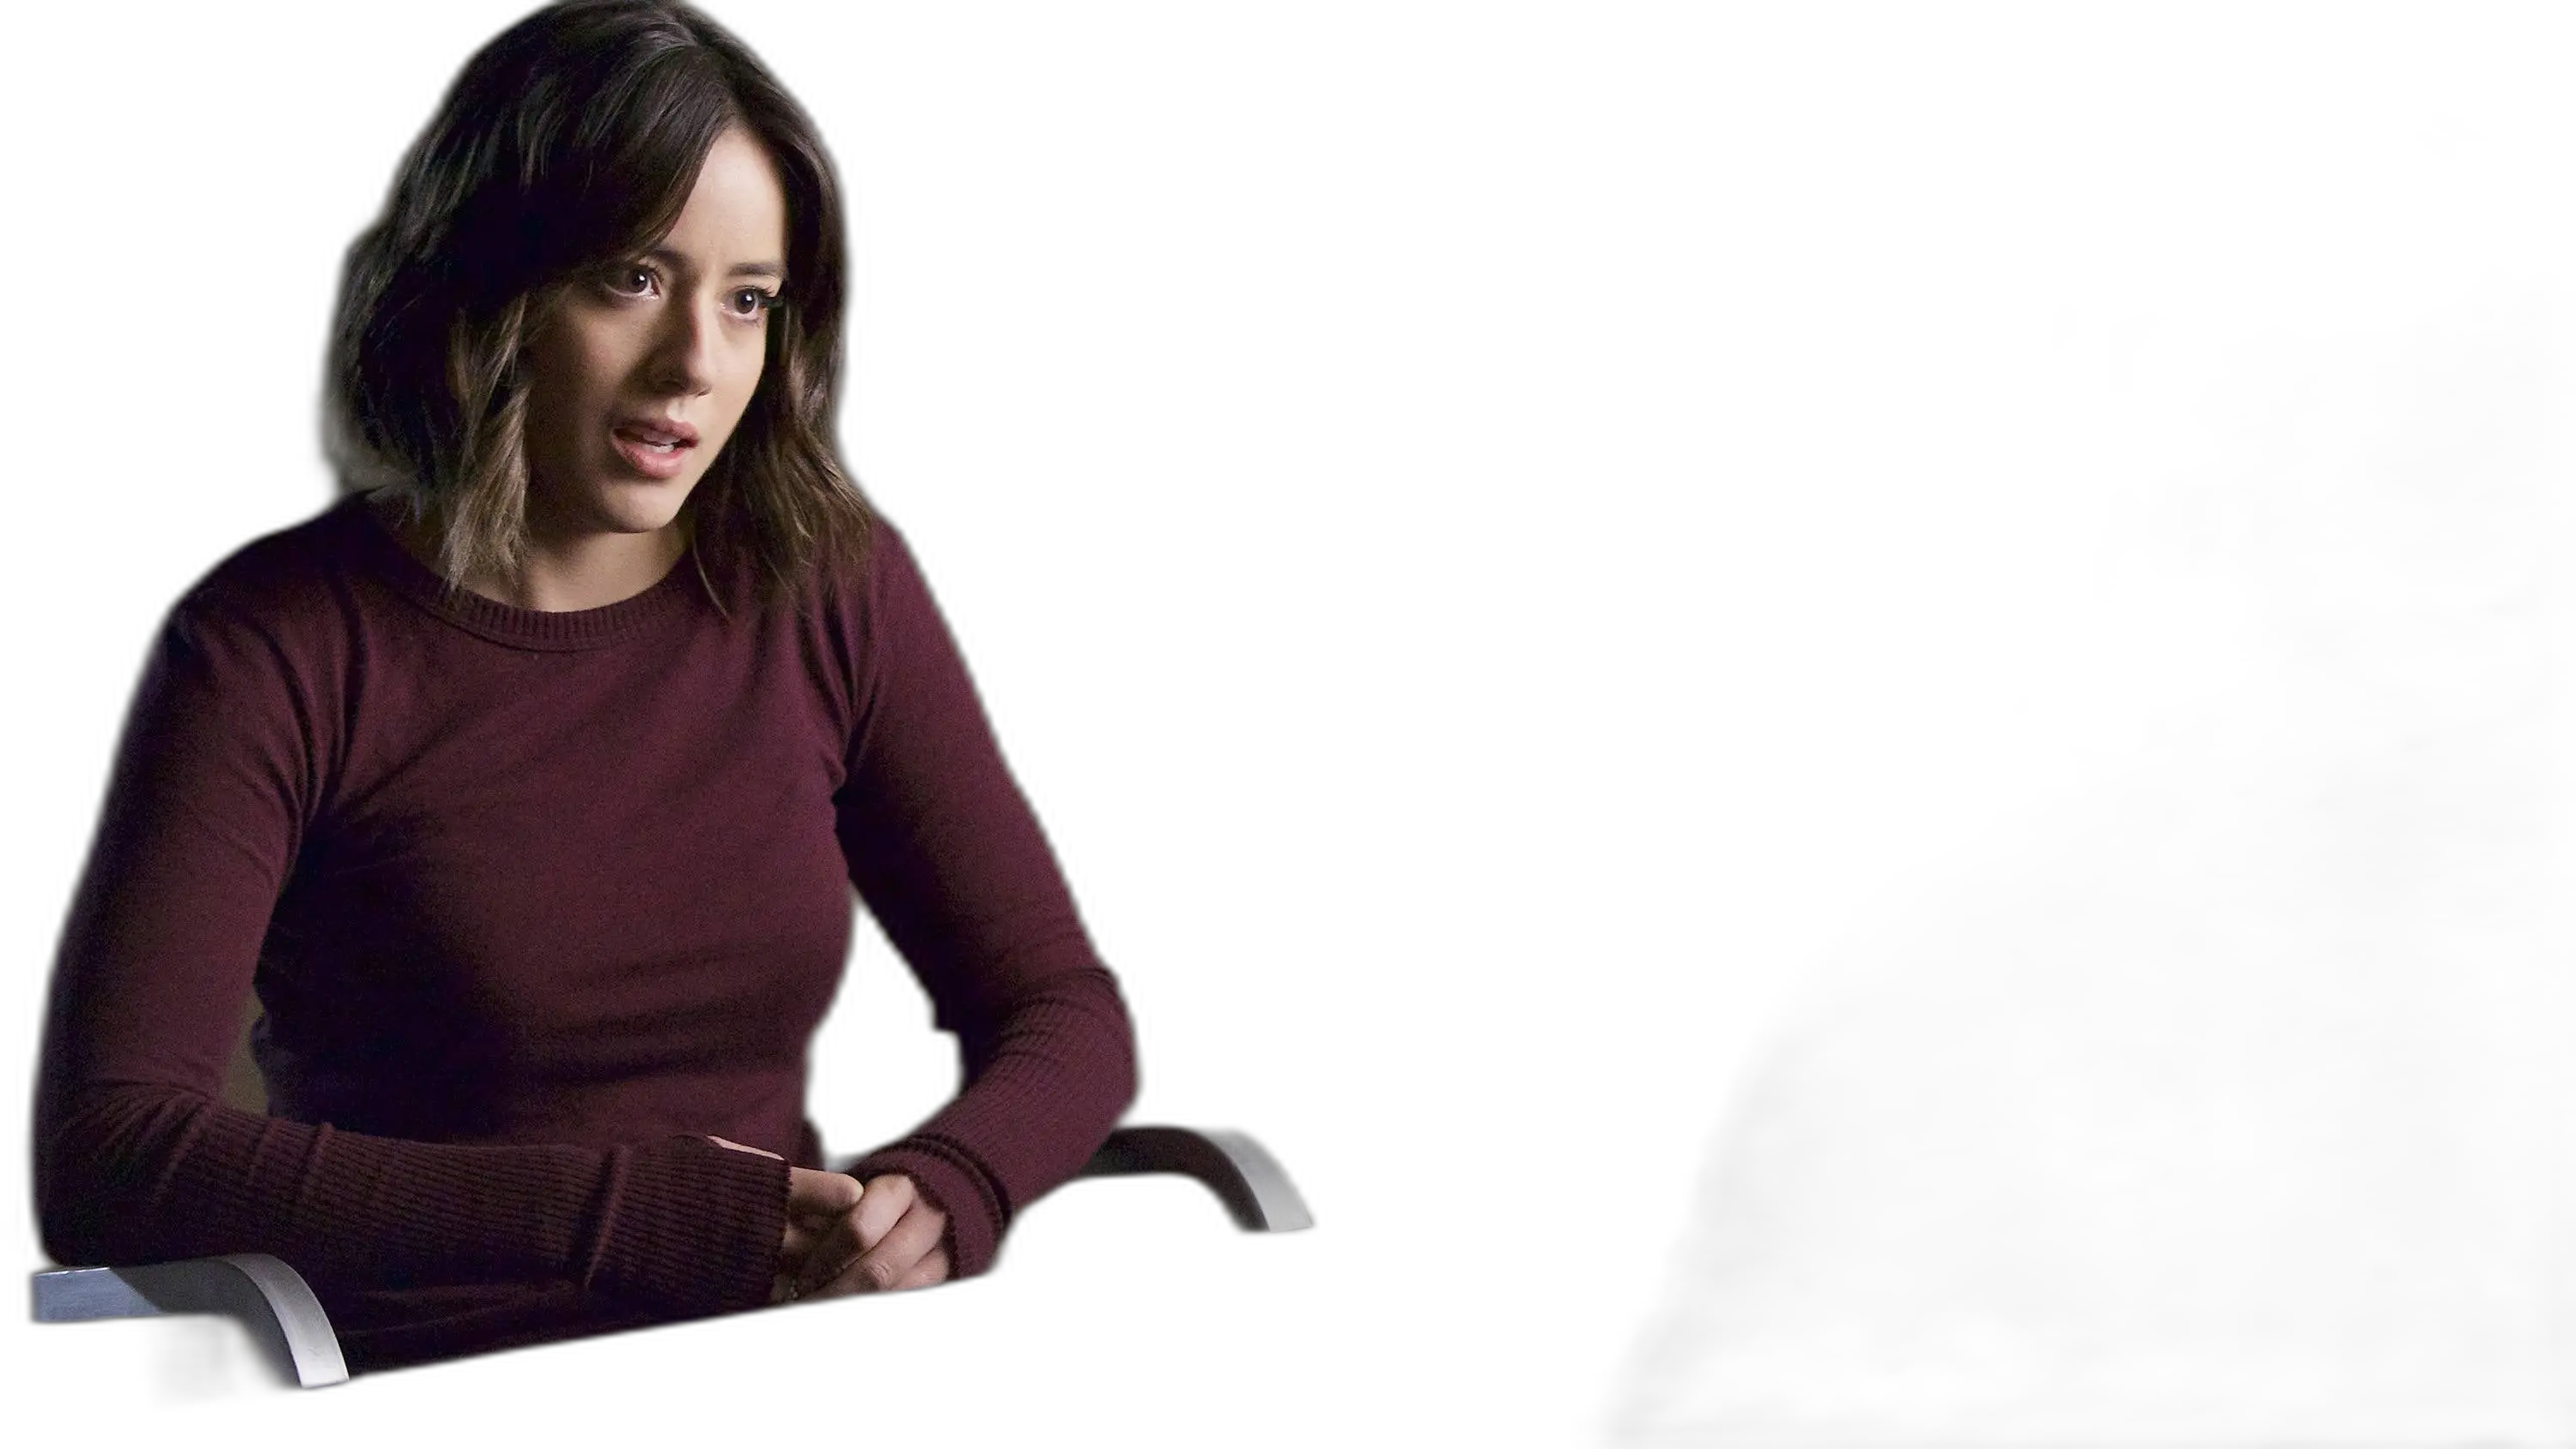
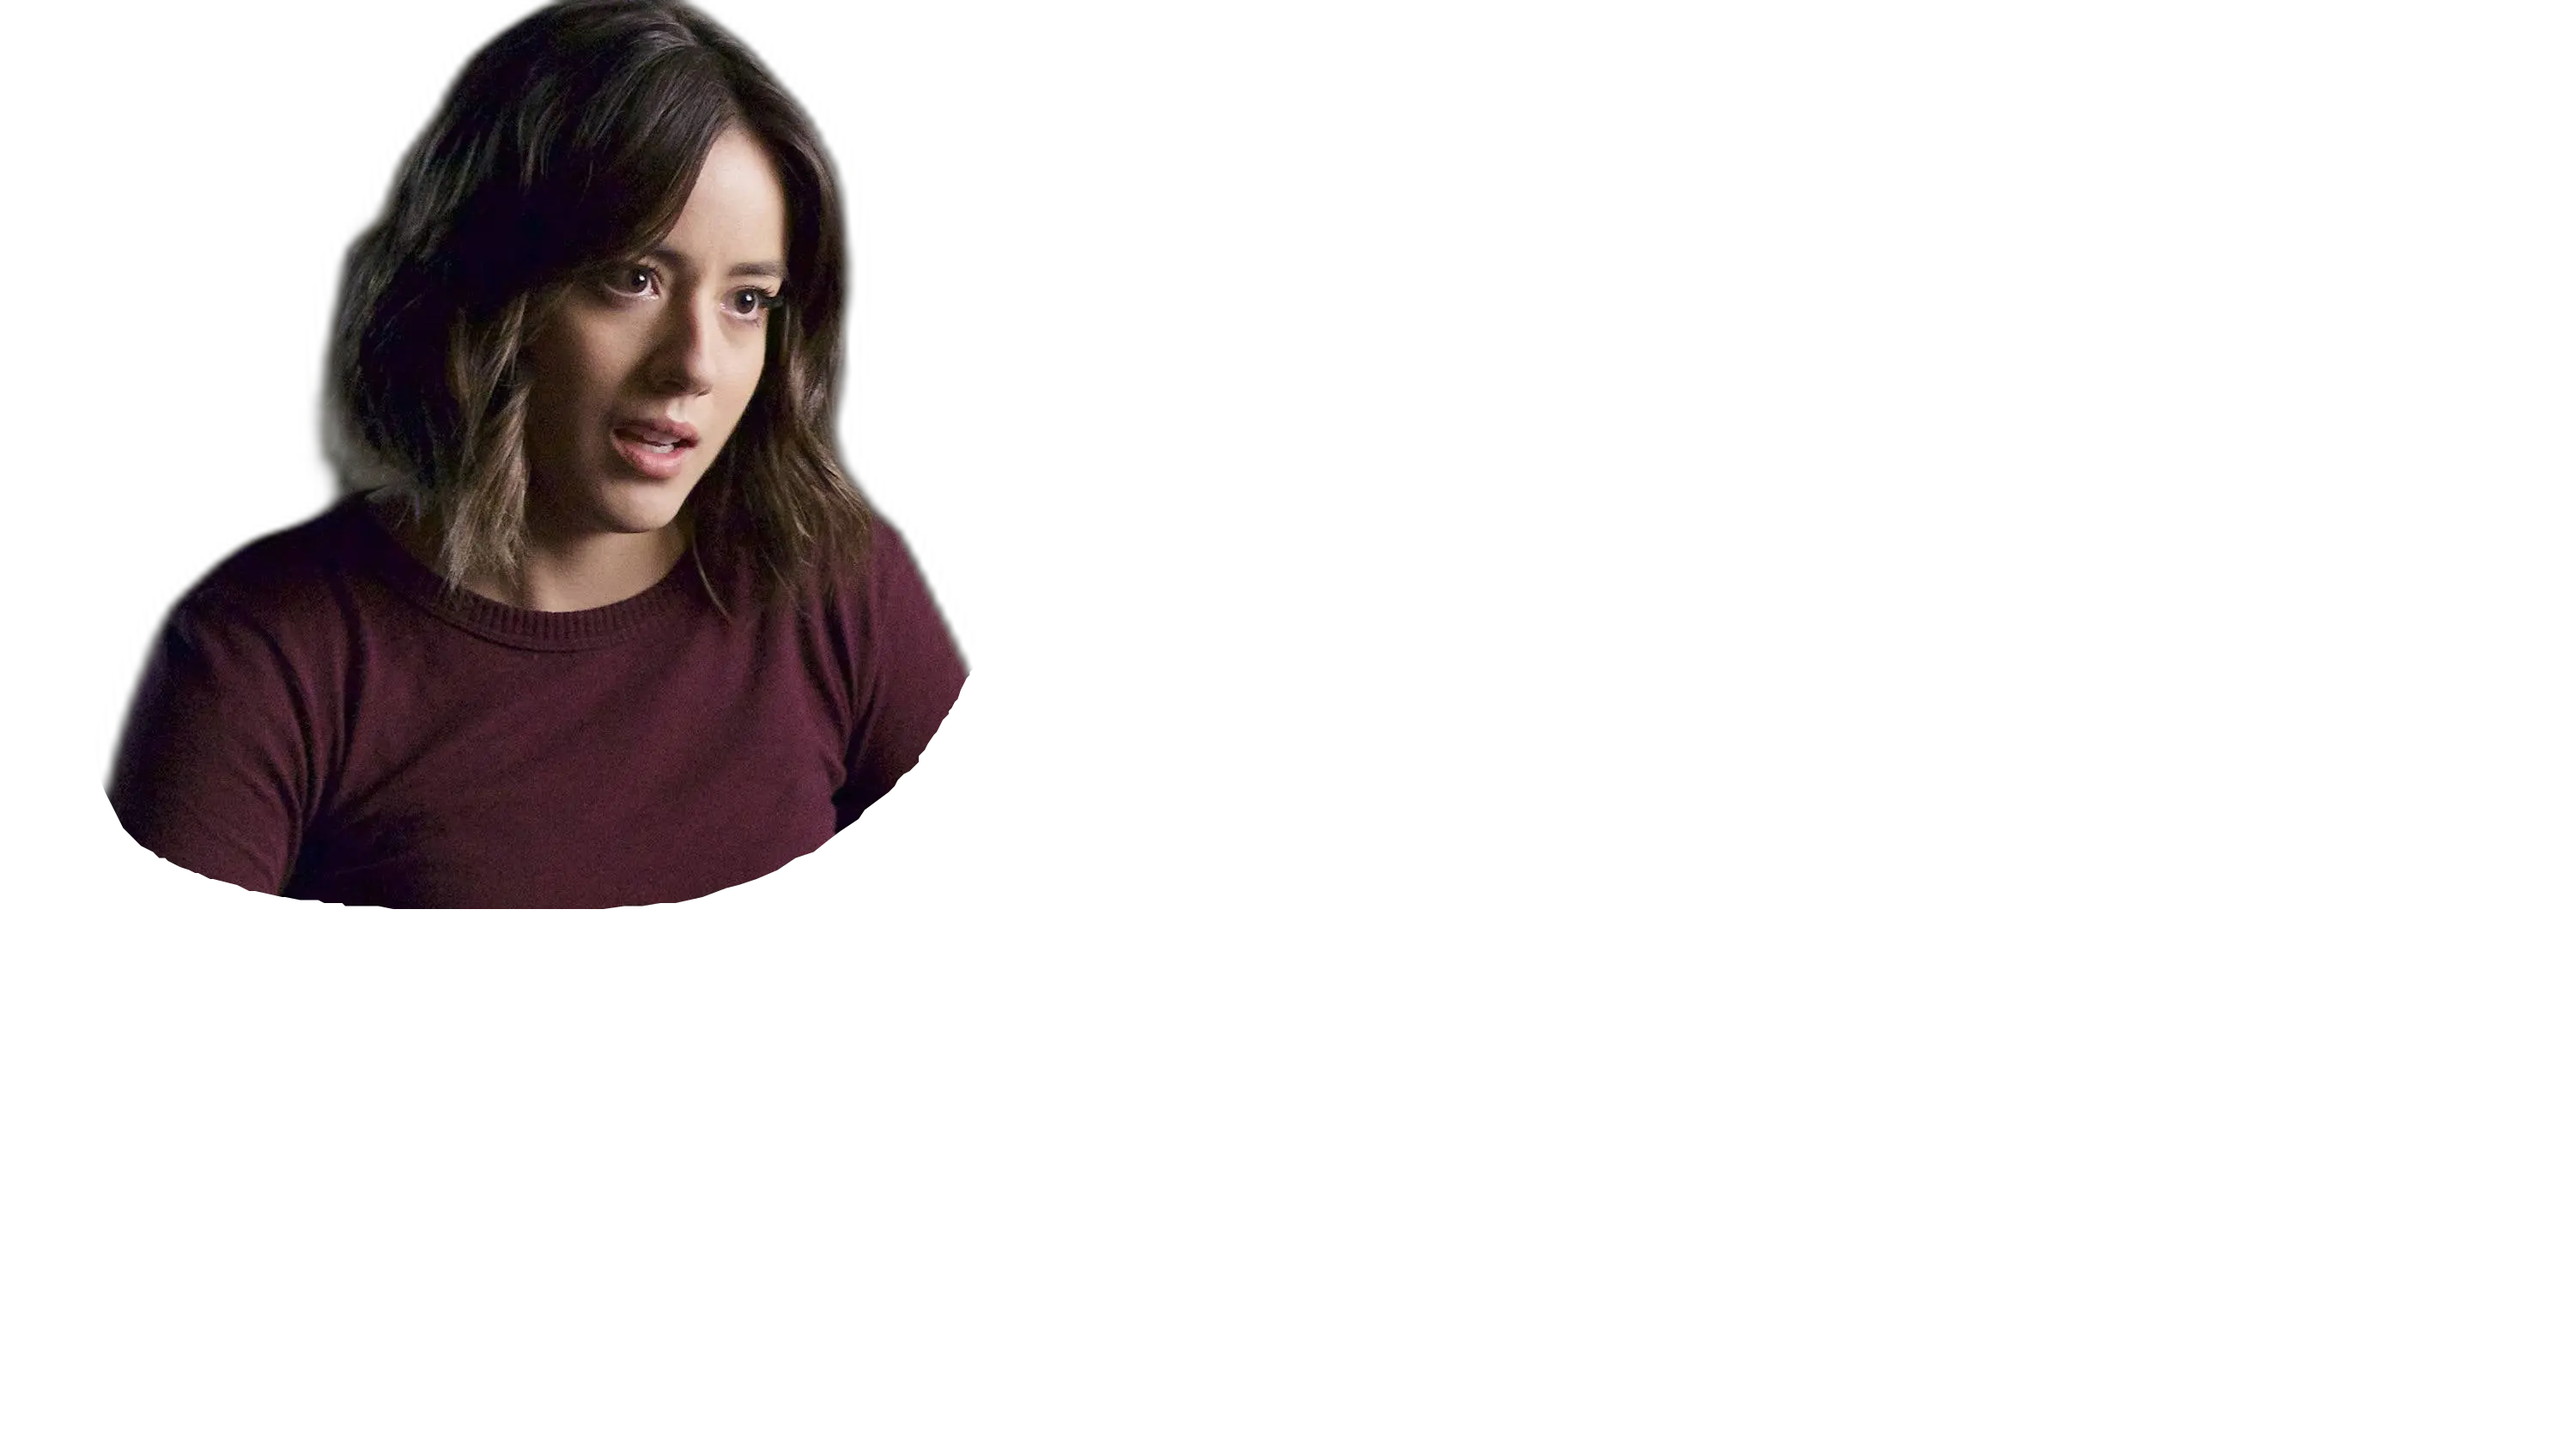
[113] Revise Marvel card type docs

Changed region(s): [[0.0, 0.4621, 0.527, 0.9858]]

diff --git a/docs/card_types/marvel.md b/docs/card_types/marvel.md
@@ -164,7 +164,7 @@ effects.
 !!! example "Example"
 
     <div class="image-compare example-card"
-        data-starting-point="17.35"
+        data-starting-point="10.9"
         data-left-label="Mask Image"
         data-right-label="Resulting Title Card">
         <img src="../assets/marvel/mask-raw.webp"/>

diff --git a/docs/user_guide/variables.md b/docs/user_guide/variables.md
@@ -270,7 +270,7 @@ that no white colors are ignored.
     fallback to `red` if one is not available.
 
     ```python
-    {get_image_color(logo_file, fallback="red")}
+    get_image_color(logo_file, fallback="red")
     ```
 
 === "Secondary Color"
